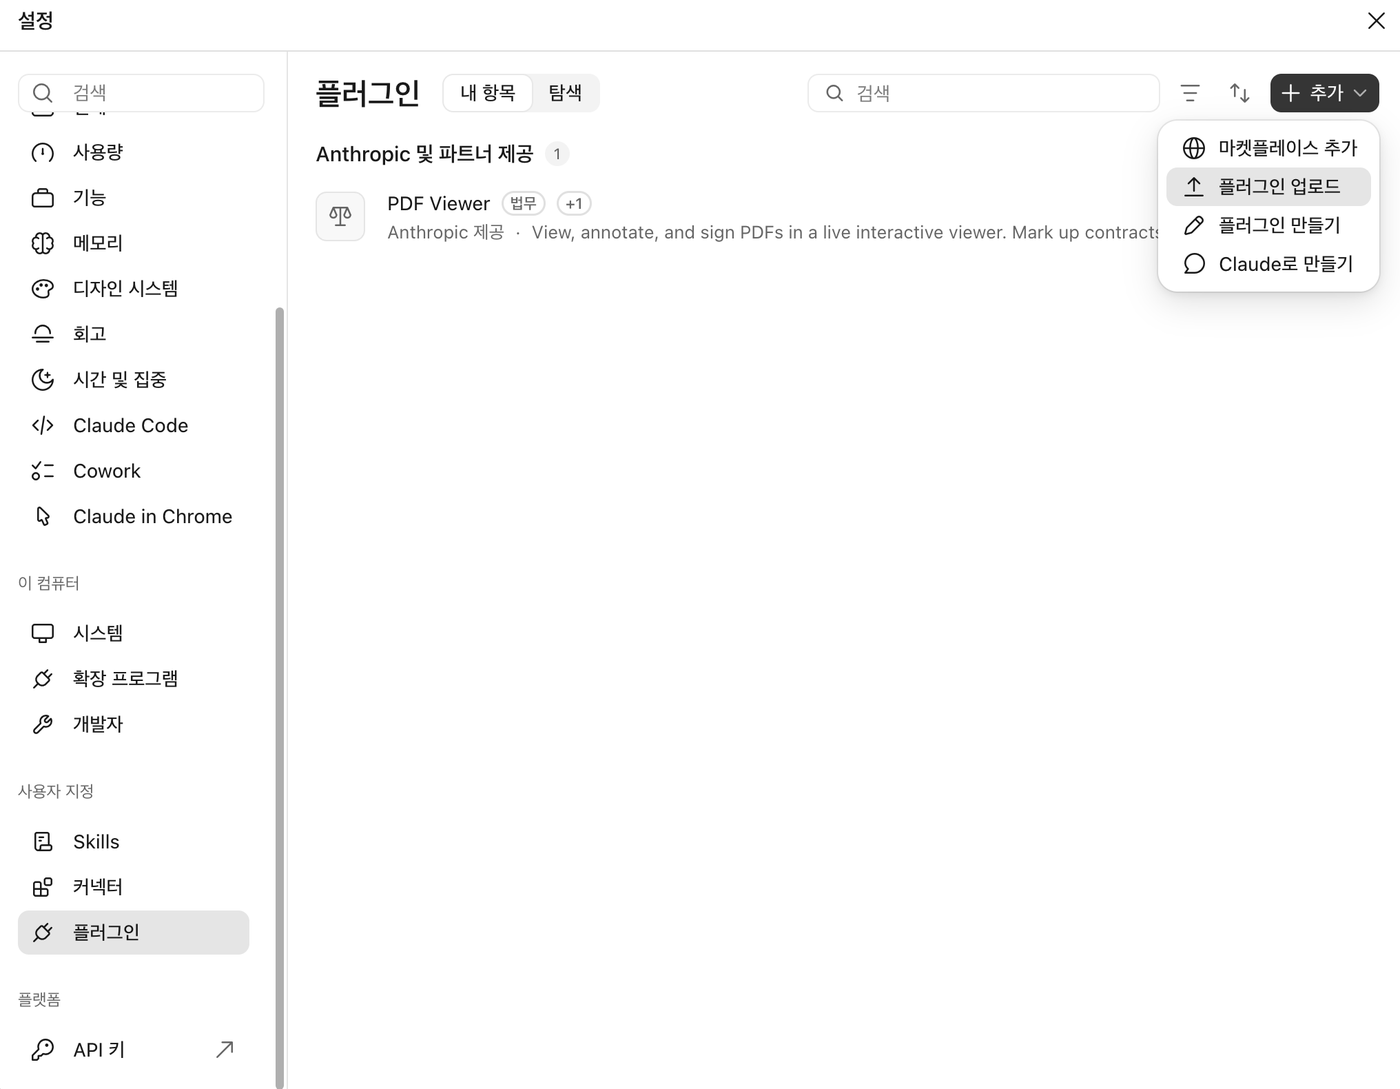
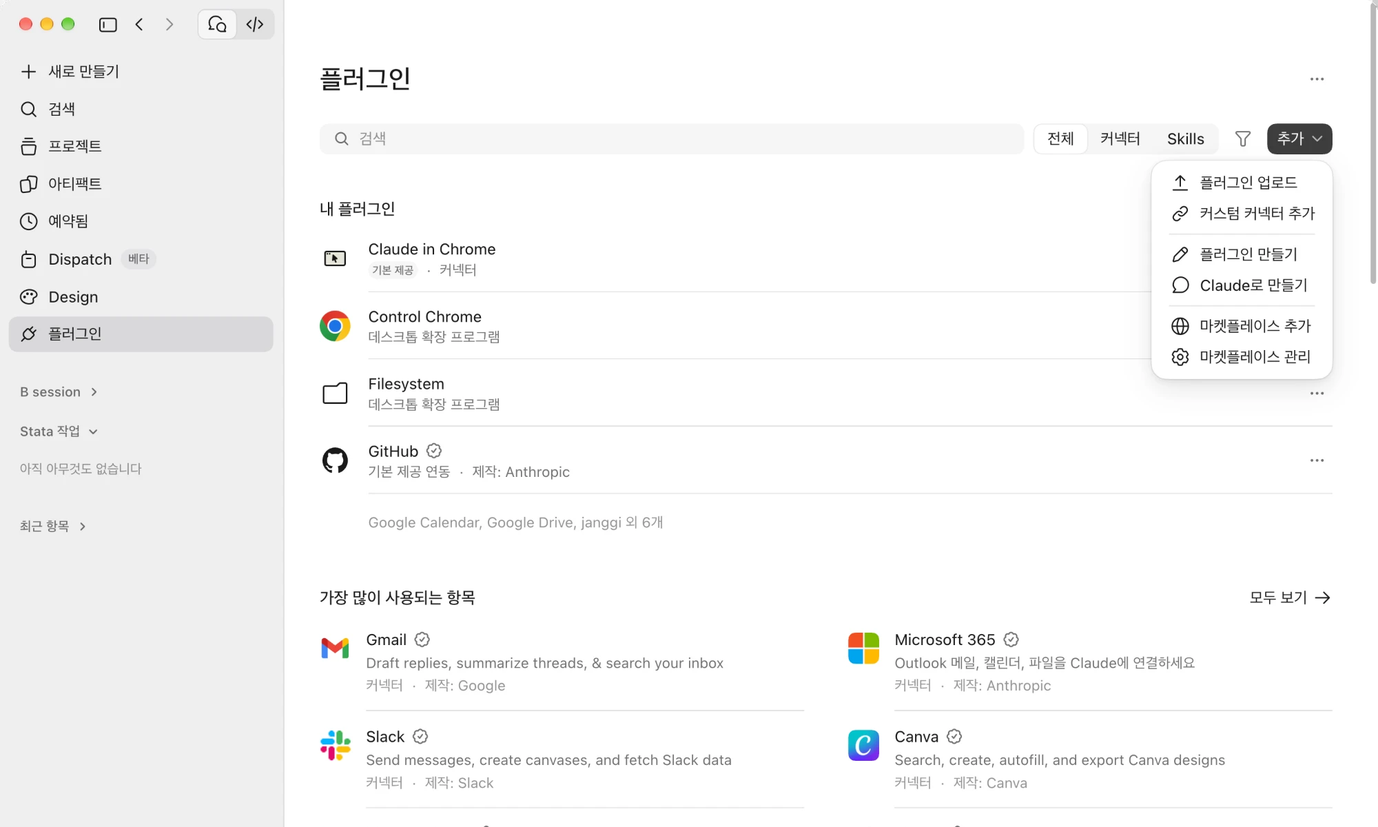
v0.14.0 (문서)

diff --git a/USAGE.en.md b/USAGE.en.md
@@ -16,7 +16,7 @@ For installation, see [README.en.md](README.en.md).
 3. Toggle cowork mode ON
 ```
 
-From there, ask for Stata work in the chat, or send results from Stata to Claude with `llm push`.
+You can start Stata and Claude in either order. From there, ask for Stata work in the chat, or send results from Stata to Claude with `llm push`.
 
 ### 1-2. Full shutdown (server + drone)
 
@@ -24,21 +24,21 @@ From there, ask for Stata work in the chat, or send results from Stata to Claude
 mcp_connect, shutdown
 ```
 
-Disconnects this Stata (same as the control panel's [Shutdown] button). If no other Stata is connected, the server also stops 1 second later.
+Disconnects this Stata (same as the control panel's [Shutdown] button). The server stops once no Stata is connected and no Claude is open.
 
 ### 1-3. Automatic shutdown
 
-When you quit Stata, the server cleans itself up 1 second later (default). If several Stata sessions are connected, it stops when you quit the last one. Use the control panel's Auto-shutdown group (chapter 8) to turn this off (keep the server running) or adjust the wait time, or use the command:
+Once no Stata is connected and no Claude is open, the server stops by itself 1 second later (default). While Claude stays open, the server keeps running even if you quit and restart Stata. Use the control panel's Auto-shutdown group (chapter 8) to turn this off (keep the server running) or adjust the wait time, or use the command:
 
 ```stata
 mcp_watchdog, grace(120)
 mcp_watchdog, enabled(0)
 ```
 
-- `grace(120)` — clean up the server 120 s after Stata quits
-- `enabled(0)` — disable auto-cleanup (server stays after Stata quits)
+- `grace(120)` — wait 120 s after the stop condition is met, then stop the server
+- `enabled(0)` — disable automatic shutdown (the server stays)
 
-> With a longer wait time, restarting Stata and reconnecting within it keeps the server running without dropping the connection.
+> The stop condition can be changed with `stata.mcp.watchdog.mode` in the settings file (8-4) — `both` (default: neither Stata nor Claude), `stata` (no Stata), `client` (no Claude).
 
 > To stop only the server, `mcp_server, stop` also works.
 
@@ -106,7 +106,7 @@ Done → a conversation with the push app open (Code tab) gets it on its own and
 
 - Other Stata commands during the run get an immediate `busy` response (no waiting, chat never blocks)
 - The completed result (full output + `rc` + elapsed time) goes to the push store — a conversation with the push app open (Code tab, 7-3) receives it as "[push] 새 결과" as soon as it finishes and summarizes it; otherwise say "check the push results" or use `/stata-pull`
-- Stored r()/e() results are preserved exactly as in a normal run (query with `getMacro("e(b)")` etc.)
+- Stored r()/e() results are preserved exactly as in a normal run (query with `getStored("e(b)")` etc.)
 - One job at a time (the Stata engine is single-threaded)
 
 ### 3-3. Graphs / saved files
@@ -125,7 +125,7 @@ Tools Claude uses to check Stata syntax on its own — you rarely call them your
 "Details on the vce option of xtreg fe"      → getHelp("xtreg","fe.vce") — just that option's detail (cascading drill-down)
 "What command is su again?"                  → abbreviations resolved automatically (su→summarize, standard Stata rules)
 "Find commands about cluster-robust errors"  → local keyword search → candidate commands + one-line descriptions
-"Show the Stata environment/version"         → getStataEnv — version, edition (BE/SE/MP), OS
+"Show the Stata environment/version"         → getStataInfo — version, edition (BE/SE/MP), OS, working folder, observations
 ```
 
 - Help comes from an ontology DB (4,464 nodes) that returns **only the slice you need, cascading down** — the default call is an overview (a few hundred tokens); use a `selector` to descend to a model (`fe`), option group (`fe.se`), option detail (`fe.vce`), `examples`, `stored`, `post.predict`, etc. An invalid selector returns the list of valid selectors for that command. See the `/stata-help` skill for the full syntax
@@ -146,9 +146,9 @@ The rest, as needed:
 - `/stata-pull` — fetch results you pushed from the Stata window with `llm push > command`
 - `/stata-help command` — check syntax. When Claude misuses an option, this corrects it (`xtreg` → `xtreg fe` → `xtreg fe.vce`, cascading)
 - `/stata-data-context` — resynchronize when Claude's picture of the data is stale (you changed the data in the Stata window). For a full profile use `/stata-data-fullcontext` (+ codebook)
-- `/stata-graph-export` — save the current graph as a PNG in the working folder / `/stata-graph-get` — inspect the graph spec
+- `/stata-graph-export` — save the current graph as a PNG in the working folder
 - `/stata-vars` — open the variable page. Browse names, labels and value labels, tick variables or write a model line, then just say "with the selected variables …" or "run the model" and Claude uses them (`/stata-setup` offers to open it)
-- `/stata-push` — open the push app (beta) + receive in this conversation (`/stata-push off` to stop, 7-3)
+- `/stata-push` — open the push app (beta). `/stata-push on` = open it and receive automatically in this conversation, `/stata-push off` = turn automatic receiving off (7-3)
 - `/stata-workflow [procedure]` — start a workflow (beta): panel analysis or panel data build, step-by-step questions through to the report (chapter 6)
 
 Preferences such as output format and analysis rules go into the working folder's CLAUDE.md (Cowork, Claude Code) or the project instructions (chat), and Claude follows them. For a starting point, download the example skill [`stata-instruction-en.zip`](https://raw.githubusercontent.com/mhjung0822/stata-mcp/main/claude-plugins/stata-instruction-en.zip), edit it and add it as a skill (chat/Cowork: skill upload; Claude Code: `~/.claude/skills/stata-instruction/`) — `/stata-setup` then loads it. Panel merging responds to plain language like "merge the waves".
@@ -274,28 +274,29 @@ Retrieved results are not deleted, only **marked as read**. Everything is kept f
 
 ### 7-3. The push app window — collect results and send them to Claude (beta)
 
-You can see push results as a list and send the ones you pick to Claude. New results arrive in the conversation **on their own only in Claude Code (the desktop Code tab)**.
+You can see push results as a list and send the ones you pick to Claude. For new results to arrive in the conversation **on their own, turn on 「자동 받기」 (Auto-receive)** — it is off by default.
 
-| Where | Install | Turn on | When a new result arrives | What you do |
-|---|---|---|---|---|
-| **Chat · Cowork** | The plugin | Not needed | Kept in the store | "get the push results" / "summarize push #3" |
-| **Code tab** | The plugin + `stata-mcp-push.plugin` (already included in a marketplace install) | "Open the push app" | Arrives in the conversation and Claude summarizes it | Nothing |
+| 「자동 받기」 (Auto-receive) | When a new result arrives | What you do |
+|---|---|---|
+| **Off** (default) | Kept in the list | "get the push results" / "summarize push #3" |
+| **On** — Code tab | Arrives in the conversation and Claude summarizes it | Nothing |
+| **On** — Cowork · chat | Arrives in the conversation and Claude summarizes it. After the conversation has been idle for a few minutes it pauses, and picks up what came in when you next say something | Nothing |
 
 <img src="images/push-app-cowork.png" alt="Claude Desktop — in the chat in the middle, a new push (#8) delivered from the push app and Claude's summary; the push app in the browser panel on the right (one receiving conversation, Summarize now, the list)" width="900">
 
 **Open / close**
 
-- **"Open the push app"** or `/stata-push` — the push app opens in the side panel and this conversation starts receiving pushes
-- **"Close the push app"** or `/stata-push off` — this conversation stops receiving
-- **"Is push on?"** — tells you whether this conversation is receiving
+- **"Open the push app"** or `/stata-push` — the push app opens in the side panel (auto-receive stays as it is)
+- **"Turn the push app on"** or `/stata-push on` — opens the push app and turns 「자동 받기」 (Auto-receive) on; this conversation starts receiving pushes
+- **"Turn the push app off"** or `/stata-push off` — turns auto-receive off; results then only pile up in the list
+- The **「자동 받기」** switch in the push app does the same. After turning it on there, say "turn the push app on" once in the conversation that should receive
 - The server tray icon menu **Open Push page** / **Open Variables page** also opens them in your browser (to look without Claude)
 
-> **In chat and Cowork, results do not arrive on their own.** They are kept in the store — ask **"get the push results"** or **"summarize push #3"** in the conversation and Claude fetches and summarizes them.
->
-> **To receive automatically in the Code tab**, if you installed the plugin by upload, upload `stata-mcp-push.plugin` as well (a marketplace install already includes it).
+> **When receiving automatically in Cowork or chat**, the signal that "a new result exists" travels through an external relay server. The result itself does not pass through the relay — it is fetched directly from this PC. To avoid the relay, add `PUSH_RELAY=off` to the settings file (8-4); in Cowork and chat you then fetch results with "get the push results".
 
 **The 「Claude 에게」 (To Claude) box**
 
+- The items below apply while auto-receive is on
 - 「바로 정리」 (Summarize now) — Claude summarizes each new push right away / 「쌓아 두기」 (Keep) — pushes only pile up in the list and go to Claude when you press [Claude 에게 보내기] (Send to Claude)
 - 「요청」 (Request) — what to say along with a send (e.g. compare the two regressions in one table). 「요청 추가」 (Add request) on a card applies to that result only; a push sent with `llm push, req(…)` from Stata arrives with its request already filled in
 - 「보낸 뒤 지우기」 (Delete after sending) — results Claude has taken are removed from the list
@@ -305,14 +306,12 @@ You can see push results as a list and send the ones you pick to Claude. New res
 
 - Colors: blue = latest, gray = not sent, orange = sent
 - Badge 「끈 사이 도착」 (arrived while off) = came in while no conversation was receiving; it is not sent on its own — press [보내기] (Send) if you want it. 「지연 도착」 (arrived late) = came in while the server was down (same handling)
-- 「받는 대화」 (Receiving) in the header — how many conversations are receiving now. With 「없음」 (none), sent results wait until a conversation runs `/stata-push`
+- 「받는 대화」 (Receiving) in the header — how many conversations are receiving now. With 「없음」 (none), sent results wait until a conversation runs `/stata-push on`
 - Click a card's header to expand or collapse · notes · search · filters (all · unread · async · sent)
 - [저장] (Save) · [불러오기] (Load) — as `push_*.json` in Stata's working folder
 - Results that arrive while Claude is answering come in right after the answer ends
 
 While you work with the variable window open, a new push shows a notice at its top.
-
-In chat and Cowork, say "get the push results" to fetch them.
 
 ---
 
@@ -328,8 +327,8 @@ mcp_setup
 ```
 
 - `mcp` (= `db mcp`) — control-panel dialog
-- `mcp_setup` — setup menu + help-DB download (links for start / uninstall)
-- `mcp_setup, update` — reinstall the latest version (restart Stata and run it before connecting, then restart again)
+- `mcp_setup` — download the server program and help DB + setup menu (links for start / uninstall)
+- `mcp_setup, update` — reinstall the latest version and fetch the server program and help DB when they have changed (restart Stata and run it before connecting, then restart again)
 - `mcp_setup, updatecheck(off)` — turn off the new-version check and anonymous connection count on connect (`on` to turn it back on)
 
 > Menu-bar registration (User ▸ Stata-MCP) is handled by `mcp_setup`. If the menu
@@ -342,10 +341,21 @@ mcp_uninstall
 ```
 
 - `mcp_uninstall` — preview (deletes nothing): lists targets + a confirm link
-- `mcp_uninstall, confirm` — removes ado/dlg/jar + menu registration (keeps settings/instructions)
+- `mcp_uninstall, confirm` — removes ado/dlg, the connection module and the server program + menu registration (keeps settings/instructions)
 - `mcp_uninstall, confirm all` — also removes settings and instruction data
 
 > The **Uninstall** button in the control panel (`db mcp`) runs the preview (first line above) as well.
+
+### 8-4. Settings file
+
+Write one setting per line in `.stata_mcp/stata_mcp.properties` under your home folder (the file is created on first start). Restart the server for a change to take effect (`mcp_server, stop`, then `mcp_connect`).
+
+| Setting | Meaning |
+|---|---|
+| `BRIDGE_PORT` / `DRONE_PORT` | Ports (default 8080 / 8001) |
+| `stata.mcp.watchdog.mode` | When the server stops by itself — `both` (default) · `stata` · `client` (1-3) |
+| `DATA_TOOL=on` | Turns on the tool that lets Claude read data values directly as a table (getData). Off by default |
+| `PUSH_RELAY=off` | Turns off the external relay used to receive pushes automatically in Cowork and chat (7-3) |
 
 ### 8-3. Using several Stata sessions (advanced)
 

diff --git a/README.en.md b/README.en.md
@@ -26,29 +26,34 @@ For usage and troubleshooting after install see [USAGE.en.md](USAGE.en.md).
 
 ## 2. Stata-side install
 
-One line in Stata:
+Two lines in Stata:
 
 ```stata
 net install stata-mcp, from("https://raw.githubusercontent.com/mhjung0822/stata-mcp/main/release") replace
 ```
 
-This downloads the two jars plus the ado/dlg files. That is the whole install — the help DB (~32MB) is offered by `mcp_connect` (next section) on first connect (answer y; internet connection required).
+```stata
+mcp_setup
+```
 
-To update later, **start Stata fresh and run these before connecting with `mcp_connect`**:
+- `net install …` — installs the Stata commands (ado) and the connection module
+- `mcp_setup` — downloads the server program and the help DB (~32MB) (internet connection required, once)
+
+To update later, **start Stata fresh and run this before connecting with `mcp_connect`**:
 
 ```stata
 mcp_setup, update
-mcp_setup, updatedb
 ```
 
-- `mcp_setup, update` — reinstalls the latest version. If it gives an error, run the install command above (`net install ...`) again
-- `mcp_setup, updatedb` — refreshes the help DB too (same as the control panel's [Update help DB] button)
+- `mcp_setup, update` — reinstalls the latest version and also fetches the server program and help DB when they have changed. If it gives an error, run the two install lines above again
 
 > To apply an update, **restart Stata again** and connect with `mcp_connect`.
 
 > The Claude extension (`.mcpb`) is updated separately. When a new version is out, download the file again from section 4-1 and install it the same way.
 
-> To change the ports (default 8080/8001), edit `BRIDGE_PORT`/`DRONE_PORT` in `stata_mcp.properties` next to the jar — the file is created automatically on first start.
+> To change the ports (default 8080/8001), edit `BRIDGE_PORT`/`DRONE_PORT` in `.stata_mcp/stata_mcp.properties` under your home folder — the file is created automatically on first start.
+
+> If your PC cannot run the server program, see "서버 프로그램이 실행되지 않는 PC" in [TROUBLESHOOTING.md](TROUBLESHOOTING.md) (Korean).
 
 ---
 
@@ -58,9 +63,9 @@ mcp_setup, updatedb
 mcp_connect
 ```
 
-Starts the MCP server and the drone in one go. On first run it offers the help-DB download — type `y` (recommended).
+Connects this Stata to Claude. You can start Stata and Claude in either order.
 
-> The server shuts down automatically when you quit Stata. You can also start it from the GUI control panel (`db mcp`) — see [USAGE.en.md](USAGE.en.md).
+> The server shuts down automatically once both Stata and Claude are closed. You can also start it from the GUI control panel (`db mcp`) — see [USAGE.en.md](USAGE.en.md).
 
 > On connect, Stata MCP checks once for a new version and shows a notice in the Results window if there is one (restart Stata, then run `mcp_setup, update` before connecting). Only the number of connections is counted, anonymously. To turn this off: `mcp_setup, updatecheck(off)`. Versions that are no longer supported won't connect and show a notice instead.
 
@@ -78,10 +83,10 @@ One package for both Mac and Windows. It works in cowork and in the Claude Code 
 
 **Method A — marketplace (register once, updates arrive by themselves)**
 
-1. In Claude Desktop, click your **name** at the bottom left → **Settings** → **Customize → Plugins**
-2. Click **+ Add** at the top right → **Add marketplace** → enter the GitHub address `mhjung0822/stata-mcp`
+1. In Claude Desktop, click **Plugins** in the left sidebar
+2. Click **Add** at the top right → **Add marketplace** → enter the GitHub address `mhjung0822/stata-mcp`
 3. **Install** the **Stata MCP** entry that appears → click **Continue** in the "local MCP server" dialog
-4. Turn on **Auto-update** on the marketplace entry so new versions arrive on their own
+4. Under **Add** → **Manage marketplaces**, turn on **Auto-update** so new versions arrive on their own
 
 **Method B — upload the file** (offline, or when method A is not offered)
 
@@ -89,13 +94,11 @@ One package for both Mac and Windows. It works in cowork and in the Claude Code 
 
    <img src="images/claude-plugin-1.png" alt="stata-mcp.plugin in the Downloads folder" width="640">
 
-2. In Claude Desktop, click your **name** at the bottom left → **Settings** → **Customize → Plugins** in the left list
+2. In Claude Desktop, click **Plugins** in the left sidebar
 
-   <img src="images/claude-plugin-2.png" alt="Settings - Plugins" width="640">
+3. Click **Add** at the top right → **Upload plugin**
 
-3. Click **+ Add** at the top right → **Upload plugin**
-
-   <img src="images/claude-plugin-3.png" alt="Add menu - Upload plugin" width="640">
+   <img src="images/claude-plugin-3.png" alt="Plugins screen - Upload plugin in the Add menu" width="640">
 
 4. **Drag** the downloaded file onto this screen, or pick it with Browse
 
@@ -109,11 +112,11 @@ One package for both Mac and Windows. It works in cowork and in the Claude Code 
 
    <img src="images/claude-plugin-6.png" alt="Local MCP server notice" width="640">
 
-7. Done when the **Stata MCP** page shows **Skills · 12** and **Connectors · 1** with the switch at the top right turned on
+7. Done when the **Stata MCP** page shows **Skills · 11** and **Connectors · 1** with the switch at the top right turned on
 
    <img src="images/claude-plugin-7.png" alt="Installed - Stata MCP plugin page" width="640">
 
-> Screenshots are from the Korean UI; button positions are the same. The server from step 3 (`mcp_connect`) must be running for the tools to work. Updates: method A is automatic (or **Update** on the marketplace entry); for method B upload the new `.plugin` file the same way. See [USAGE.en.md](USAGE.en.md) for the slash commands. In the Claude Code tab they carry the `stata-mcp:` prefix (e.g. `/stata-mcp:stata-exec`). The plugin ships the Korean skill texts; the English skill pack is in [CHAT.en.md](CHAT.en.md).
+> Screenshots are from the Korean UI; button positions are the same. Run `mcp_connect` (step 3) in Stata for the tools to work. Updates: method A is automatic (or **Update** on the marketplace entry); for method B upload the new `.plugin` file the same way. See [USAGE.en.md](USAGE.en.md) for the slash commands. In the Claude Code tab they carry the `stata-mcp:` prefix (e.g. `/stata-mcp:stata-exec`). The plugin ships the Korean skill texts; the English skill pack is in [CHAT.en.md](CHAT.en.md).
 
 ### 4-2. Also use it in chat (optional)
 
@@ -132,6 +135,8 @@ or **⌘Q** on Mac. Then start them in this order:
 2. Start Claude Desktop
 ```
 
+Either order works.
+
 Then, in a cowork session (or the Claude Code tab), type either of these:
 
 ```
@@ -147,7 +152,7 @@ If the version and edition come back (e.g. StataNow/MP 19.5), the installation i
 If not, check in order:
 
 1. Stata Results window — does the `mcp_connect` output say `Ready for commands`? (if not, see step 3, Start the server)
-2. Settings → Plugins — is **Stata MCP** switched on? (for chat: Settings → Extensions). If it is on but nothing works, fully quit and relaunch Claude Desktop
+2. **Plugins** in the left sidebar — is **Stata MCP** switched on? (for chat: Settings → Extensions). If it is on but nothing works, fully quit and relaunch Claude Desktop
 
 For everyday usage see [USAGE.en.md](USAGE.en.md) — startup order, control panel, push notifications, help lookup, troubleshooting. Rare environment issues: [TROUBLESHOOTING.md](TROUBLESHOOTING.md) (Korean).
 

diff --git a/TROUBLESHOOTING.md b/TROUBLESHOOTING.md
@@ -31,9 +31,24 @@ Enable-WindowsOptionalFeature -Online -FeatureName VirtualMachinePlatform -All -
 
 ## 코워크에서 Stata 커넥터가 안 보일 때
 
-1. **Stata 쪽 서버가 떠 있는지 먼저** — Stata 에서 `mcp_connect` 실행 후 다시 시도
+1. **Stata 가 연결돼 있는지 먼저** — Stata 에서 `mcp_connect` 실행 후 다시 시도
 2. 로그인 직후에는 커넥터가 몇 분간 안 보일 수 있습니다 — 잠시 후 새 세션으로 재시도
 3. 그래도 안 보이면 Claude Desktop 을 완전히 종료(트레이 → Quit) 후 재실행
+
+## 서버 프로그램이 실행되지 않는 PC
+
+0.14.0 부터 MCP 서버는 별도의 실행 파일입니다. 보안 정책 등으로 이 파일을 실행할 수 없는 PC 에서는 이전 방식(0.13.x — Stata 만 있으면 동작)을 쓸 수 있습니다. 이전 방식은 더 고쳐지지 않습니다.
+
+Stata 에서:
+
+```stata
+net install stata-mcp, from("https://raw.githubusercontent.com/mhjung0822/stata-mcp/java/release") replace
+```
+
+- Claude 쪽 플러그인은 [이전 방식용 `stata-mcp.plugin`](https://raw.githubusercontent.com/mhjung0822/stata-mcp/java/claude-plugins/stata-mcp.plugin) 을 README 4-1 의 방법 B 로 올립니다
+- 이전 방식에서는 Stata 에서 `mcp_connect` 를 먼저 실행한 뒤 Claude 를 켭니다
+- Stata 를 켤 때 나오는 새 버전 안내는 `mcp_setup, updatecheck(off)` 로 끕니다
+- 사용법은 [이전 방식 문서](https://github.com/mhjung0822/stata-mcp/tree/java) 를 보세요
 
 ## 확장(mcpb)을 쓸 수 없는 환경 — 설정 파일 수동 등록
 

diff --git a/CHAT.md b/CHAT.md
@@ -23,12 +23,12 @@ Claude Desktop 의 **채팅** 화면은 플러그인을 쓰지 않습니다. 채
 
 5. Claude Desktop 재시작
 
-> 화면은 Mac 기준입니다. 서버(`mcp_connect`)를 먼저 띄워 두어야 도구가 동작합니다. 업데이트는 새 `.mcpb` 파일로 같은 방법으로 다시 설치.
+> 화면은 Mac 기준입니다. 채팅 화면은 Stata 에서 `mcp_connect` 를 **먼저** 실행해 두어야 도구가 동작합니다. 업데이트는 새 `.mcpb` 파일로 같은 방법으로 다시 설치.
 
 ## 2. 스킬 등록 (슬래시 명령)
 
 1. [`stata-skills-all.zip` 다운로드](https://raw.githubusercontent.com/mhjung0822/stata-mcp/main/claude-plugins/chat/stata-skills-all.zip)
-2. 받은 zip 의 **압축을 풀면** 스킬별 zip 12개가 나옵니다
+2. 받은 zip 의 **압축을 풀면** 스킬별 zip 11개가 나옵니다
 3. Claude Desktop → **설정 → Skills** → 업로드 → 압축 푼 **스킬별 zip** 들을 업로드 (묶음 zip 을 그대로 올리지 마세요)
 4. 한 번 올리면 같은 계정의 모든 기기에 자동 적용됩니다
 5. (선택) 출력형식·해석 깊이 같은 작업 지침을 스킬로 두려면 [`stata-instruction.zip`](https://raw.githubusercontent.com/mhjung0822/stata-mcp/main/claude-plugins/stata-instruction.zip) 을 내려받아 `SKILL.md` 를 고친 뒤 같은 방법으로 업로드 — 묶음에 들어 있지 않아 업데이트해도 덮이지 않습니다

diff --git a/CHAT.en.md b/CHAT.en.md
@@ -23,12 +23,12 @@ The **chat** surface of Claude Desktop does not use plugins. To use the Stata to
 
 5. Restart Claude Desktop
 
-> Screenshots are from the Korean UI on Mac; button positions are the same. The server (`mcp_connect`) must be running for the tools to work. To update, install the new `.mcpb` file the same way.
+> Screenshots are from the Korean UI on Mac; button positions are the same. In the chat screen, run `mcp_connect` in Stata **first** for the tools to work. To update, install the new `.mcpb` file the same way.
 
 ## 2. Register the skills (slash commands)
 
 1. [Download `stata-skills-all-en.zip`](https://raw.githubusercontent.com/mhjung0822/stata-mcp/main/claude-plugins/chat/stata-skills-all-en.zip)
-2. **Unzip it** — you get 12 per-skill zips
+2. **Unzip it** — you get 11 per-skill zips
 3. Claude Desktop → **Settings → Skills** → Upload → upload the extracted **per-skill zips** (do not upload the bundle zip itself)
 4. Upload once and it applies automatically to every device on the same account
 5. (optional) To keep working instructions (output format, depth of interpretation) as a skill, download [`stata-instruction-en.zip`](https://raw.githubusercontent.com/mhjung0822/stata-mcp/main/claude-plugins/stata-instruction-en.zip), edit its `SKILL.md` and upload it the same way — it is not part of the bundle, so updates never overwrite it
